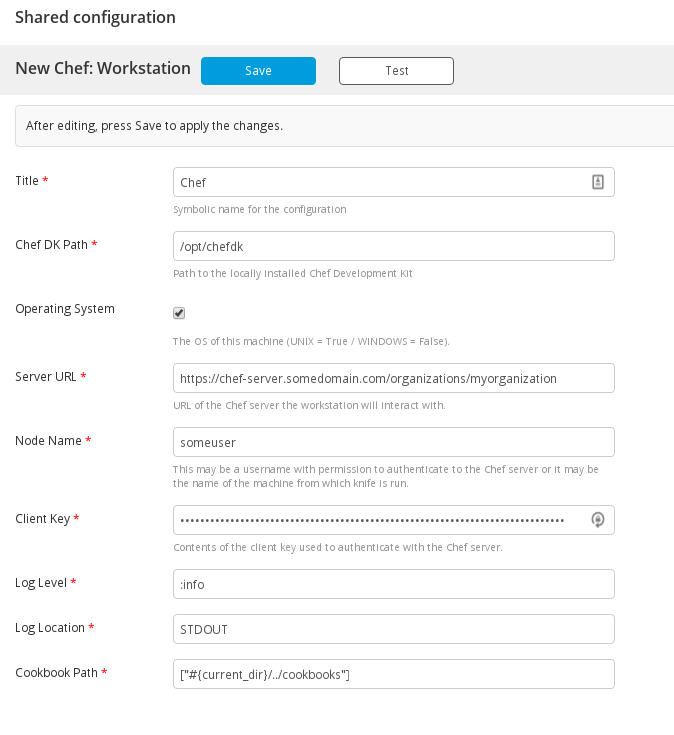
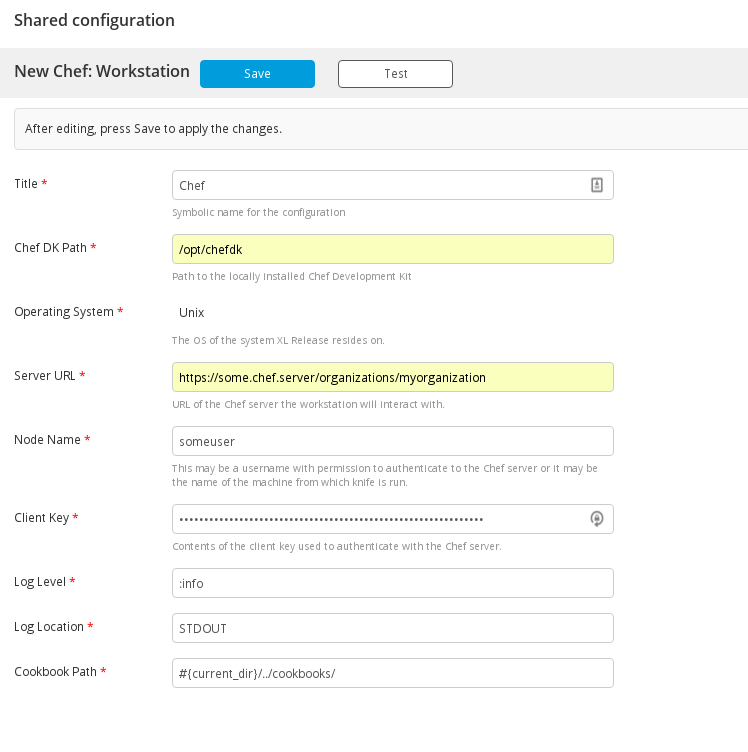
Upload Cookbook/Bugfix
Added Upload Cookbook functionality. Also fixed a bug with the
cookbook_path that was being set in knife.rb. "C" was capitalized which
resulted in it having no affect (but did not error out). Updated README
to reflecy both these changes.

diff --git a/src/main/resources/chef/Workstation.py b/src/main/resources/chef/Workstation.py
@@ -120,6 +120,10 @@ class Workstation(object):
     def chef_shownode(self, variables):
         return self.execute_knife_command("node show %s" % variables['node_name'], 'chef_shownode.cmd', variables['options'], True)
 
+    def chef_uploadcookbook(self, variables):
+        if variables['override_cookbook_path'] is not None and variables['override_cookbook_path']:
+            self.cookbook_path = variables['override_cookbook_path']
+        return self.execute_knife_command("cookbook upload %s" % variables['cookbook_name'], 'chef_uploadcookbook.cmd', variables['options'], True)
 
     def execute_knife_command(self, command, script_name, options=None, zip_workspace=False):
         connection = None
@@ -138,7 +142,7 @@ class Workstation(object):
             output_handler = CapturingOverthereExecutionOutputHandler.capturingHandler()
             error_handler = CapturingOverthereExecutionOutputHandler.capturingHandler()
             exit_code = connection.execute(output_handler, error_handler, command)
-            return [exit_code, output_handler]
+            return [exit_code, output_handler, error_handler]
         except Exception:
             traceback.print_exc(file=sys.stdout)
             sys.exit(1)
@@ -184,7 +188,7 @@ class Workstation(object):
   node_name "%s"
   client_key "#{current_dir}/chefkey.pem"
   chef_server_url "%s"
-  Cookbook_path %s''' % (self.log_level, self.log_location, self.node_name, self.chef_server_url, self.cookbook_path)
+  cookbook_path ["%s"]''' % (self.log_level, self.log_location, self.node_name, self.chef_server_url, self.cookbook_path)
         knife_rb_file = connection.getFile(OverthereUtils.constructPath(connection.getFile(path), 'knife.rb'))
         OverthereUtils.write(knife_contents, knife_rb_file)
 

diff --git a/src/main/resources/chef/ChefTask.py b/src/main/resources/chef/ChefTask.py
@@ -12,9 +12,15 @@ def handle_result(result):
         sys.exit(result[0])
     else:
         output_handler = result[1]
-        result_output = ""
-        for line in output_handler.getOutputLines():
-            result_output = '\n'.join([result_output, line])
+        error_handler = result[2]
+        result_output = parse_output(output_handler.getOutputLines())
+        result_output += parse_output(error_handler.getOutputLines())
+    return result_output
+
+def parse_output(lines):
+    result_output = ""
+    for line in lines:
+        result_output = '\n'.join([result_output, line])
     return result_output
 
 workstation = Workstation.get_workstation(chef_workstation)

diff --git a/README.md b/README.md
@@ -69,6 +69,10 @@ The Apply Cookbook Unix task applies a cookbook to a specified unix node.
 The Apply Cookbook Windows task applies a cookbook to a specified windows node.
 ![ChefApplyCookbookWindows](images/ChefApplyCookbookWindows.png)
 
+### Upload Cookbook
+The Upload Cookbook task uploads a cookbook to the Chef server.
+![ChefUploadCookbook](images/ChefUploadCookbook.png)
+
 ---
 
 ## References:
